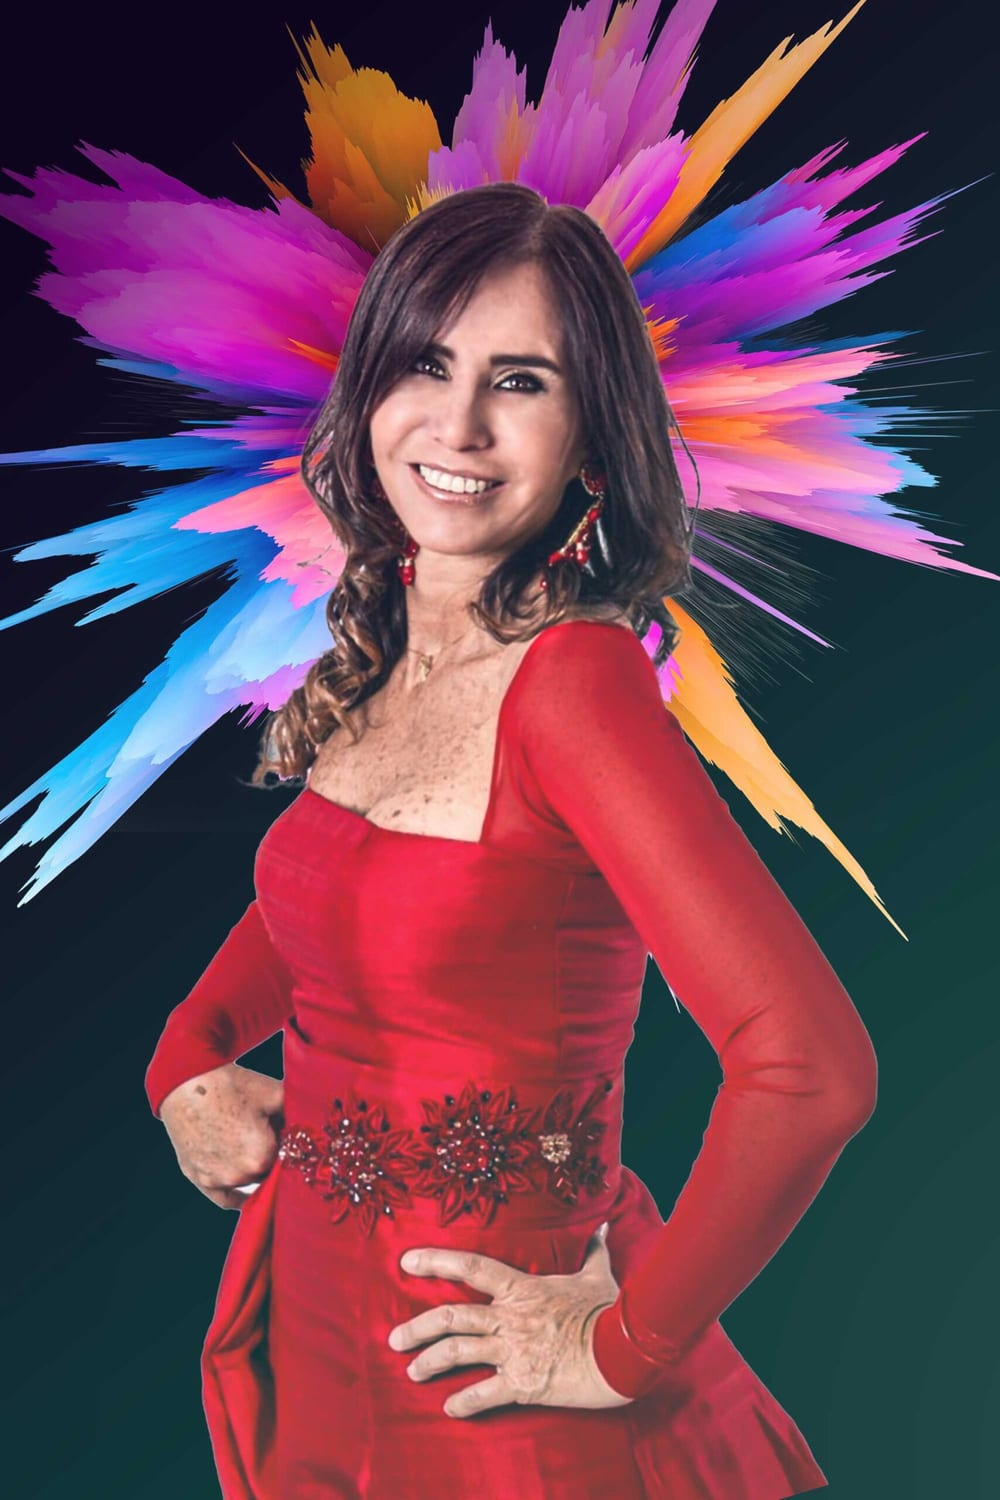
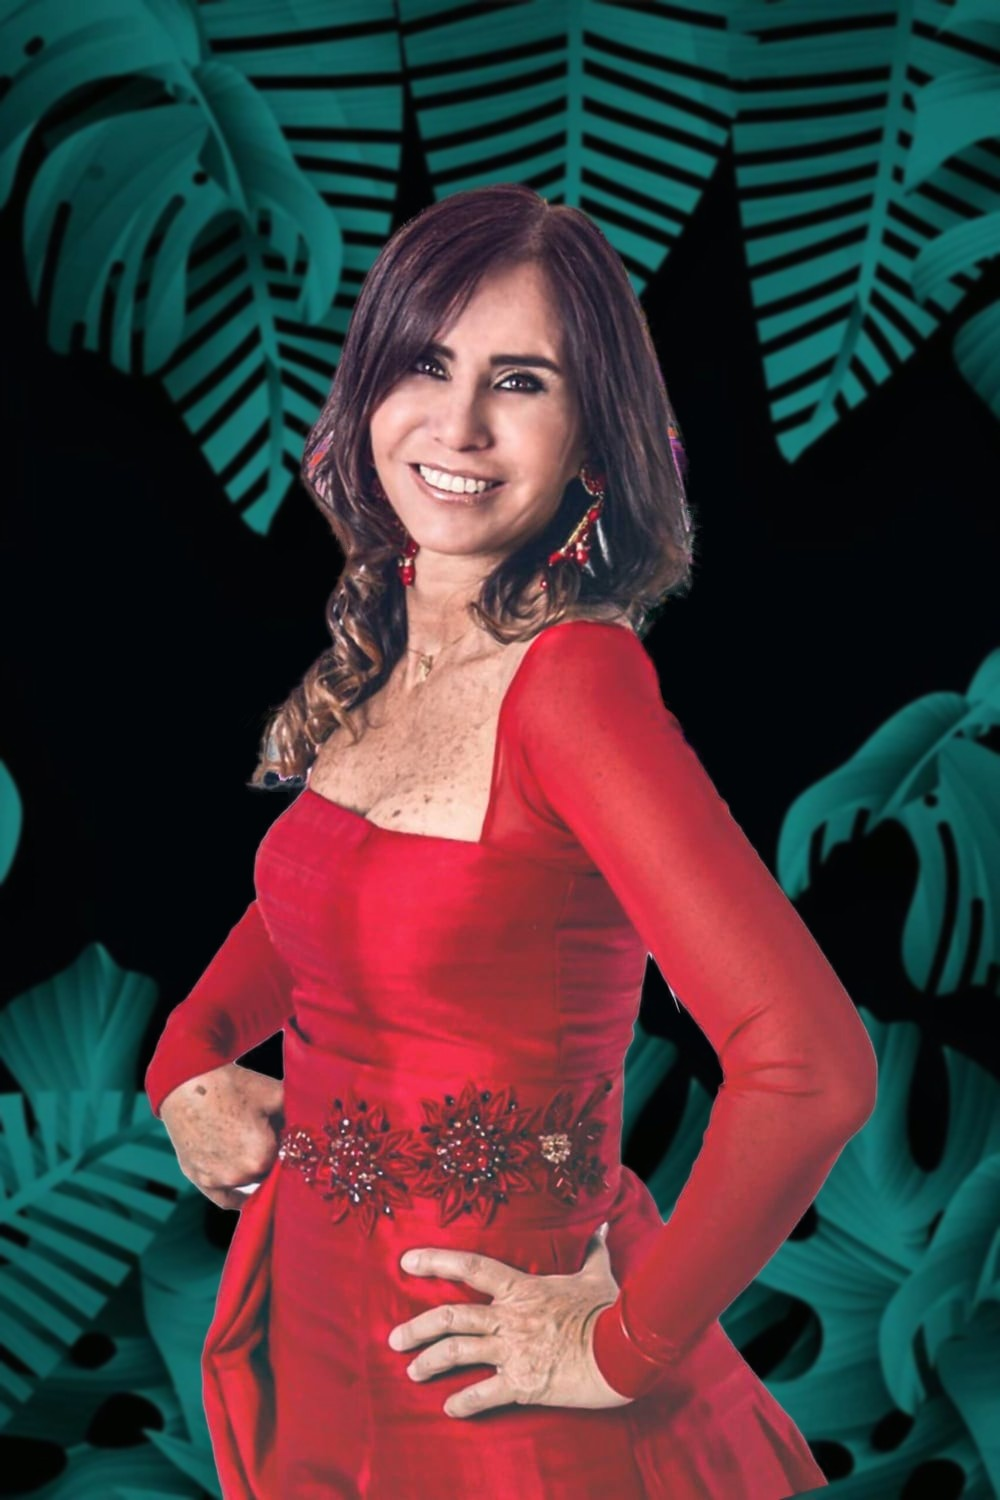
feat: add Artistas component and social media data structure
- Created a new Artistas component to showcase artists involved in the Nasúa initiative, including a title, description, image, and a list of artist names with animation effects.
- Introduced a new social media data structure in socials.ts to manage social media links and SVG paths for various platforms, enhancing the site's social media integration.

diff --git a/src/data/socials.ts b/src/data/socials.ts
@@ -1,0 +1,39 @@
+// ═══════════════════════════════════════════════════════════
+//  REDES SOCIALES — lista compartida (hero + footer)
+//  Los links se editan en config.ts → REDES
+// ═══════════════════════════════════════════════════════════
+import { REDES } from './config';
+
+export interface Social {
+  key:   string;
+  label: string;
+  href:  string;   // '' si aún no hay link
+  path:  string;   // path SVG (viewBox 0 0 24 24)
+}
+
+export const SOCIALS: Social[] = [
+  {
+    key: 'instagram', label: 'Instagram', href: REDES.instagram,
+    path: 'M12 2.163c3.204 0 3.584.012 4.85.07 3.252.148 4.771 1.691 4.919 4.919.058 1.265.069 1.645.069 4.849 0 3.205-.012 3.584-.069 4.849-.149 3.225-1.664 4.771-4.919 4.919-1.266.058-1.644.07-4.85.07-3.204 0-3.584-.012-4.849-.07-3.26-.149-4.771-1.699-4.919-4.92-.058-1.265-.07-1.644-.07-4.849 0-3.204.013-3.583.07-4.849.149-3.227 1.664-4.771 4.919-4.919 1.266-.057 1.645-.069 4.849-.069zm0-2.163c-3.259 0-3.667.014-4.947.072-4.358.2-6.78 2.618-6.98 6.98-.059 1.281-.073 1.689-.073 4.948 0 3.259.014 3.668.072 4.948.2 4.358 2.618 6.78 6.98 6.98 1.281.058 1.689.072 4.948.072 3.259 0 3.668-.014 4.948-.072 4.354-.2 6.782-2.618 6.979-6.98.059-1.28.073-1.689.073-4.948 0-3.259-.014-3.667-.072-4.947-.196-4.354-2.617-6.78-6.979-6.98-1.281-.059-1.69-.073-4.949-.073zm0 5.838c-3.403 0-6.162 2.759-6.162 6.162s2.759 6.163 6.162 6.163 6.162-2.759 6.162-6.163c0-3.403-2.759-6.162-6.162-6.162zm0 10.162c-2.209 0-4-1.79-4-4 0-2.209 1.791-4 4-4s4 1.791 4 4c0 2.21-1.791 4-4 4zm6.406-11.845c-.796 0-1.441.645-1.441 1.44s.645 1.44 1.441 1.44c.795 0 1.439-.645 1.439-1.44s-.644-1.44-1.439-1.44z',
+  },
+  {
+    key: 'facebook', label: 'Facebook', href: REDES.facebook,
+    path: 'M24 12.073c0-6.627-5.373-12-12-12s-12 5.373-12 12c0 5.99 4.388 10.954 10.125 11.854v-8.385H7.078v-3.47h3.047V9.43c0-3.007 1.792-4.669 4.533-4.669 1.312 0 2.686.235 2.686.235v2.953H15.83c-1.491 0-1.956.925-1.956 1.874v2.25h3.328l-.532 3.47h-2.796v8.385C19.612 23.027 24 18.062 24 12.073z',
+  },
+  {
+    key: 'tiktok', label: 'TikTok', href: REDES.tiktok,
+    path: 'M12.525.02c1.31-.02 2.61-.01 3.91-.02.08 1.53.63 3.09 1.75 4.17 1.12 1.11 2.7 1.62 4.24 1.79v4.03c-1.44-.05-2.89-.35-4.2-.97-.57-.26-1.1-.59-1.62-.93-.01 2.92.01 5.84-.02 8.75-.08 1.4-.54 2.79-1.35 3.94-1.31 1.92-3.58 3.17-5.91 3.21-1.43.08-2.86-.31-4.08-1.03-2.02-1.19-3.44-3.37-3.65-5.71-.02-.5-.03-1-.01-1.49.18-1.9 1.12-3.72 2.58-4.96 1.66-1.44 3.98-2.13 6.15-1.72.02 1.48-.04 2.96-.04 4.44-.99-.32-2.15-.23-3.02.37-.63.41-1.11 1.04-1.36 1.75-.21.51-.15 1.07-.14 1.61.24 1.64 1.82 3.02 3.5 2.87 1.12-.01 2.19-.66 2.77-1.61.19-.33.4-.67.41-1.06.1-1.79.06-3.57.07-5.36.01-4.03-.01-8.05.02-12.07z',
+  },
+  {
+    key: 'youtube', label: 'YouTube', href: REDES.youtube,
+    path: 'M23.498 6.186a3.016 3.016 0 00-2.122-2.136C19.505 3.545 12 3.545 12 3.545s-7.505 0-9.377.505A3.017 3.017 0 00.502 6.186C0 8.07 0 12 0 12s0 3.93.502 5.814a3.016 3.016 0 002.122 2.136c1.871.505 9.376.505 9.376.505s7.505 0 9.377-.505a3.015 3.015 0 002.122-2.136C24 15.93 24 12 24 12s0-3.93-.502-5.814zM9.545 15.568V8.432L15.818 12l-6.273 3.568z',
+  },
+  {
+    key: 'spotify', label: 'Spotify', href: REDES.spotify,
+    path: 'M12 0C5.4 0 0 5.4 0 12s5.4 12 12 12 12-5.4 12-12S18.66 0 12 0zm5.521 17.34c-.24.359-.66.48-1.021.24-2.82-1.74-6.36-2.101-10.561-1.141-.418.122-.779-.179-.899-.539-.12-.421.18-.78.54-.9 4.56-1.021 8.52-.6 11.64 1.32.42.18.479.659.301 1.02zm1.44-3.3c-.301.42-.841.6-1.262.3-3.239-1.98-8.159-2.58-11.939-1.38-.479.12-1.02-.12-1.14-.6-.12-.48.12-1.021.6-1.141C9.6 9.9 15 10.561 18.72 12.84c.361.181.54.78.241 1.2zm.12-3.36C15.24 8.4 8.82 8.16 5.16 9.301c-.6.179-1.2-.181-1.38-.721-.18-.601.18-1.2.72-1.381 4.26-1.26 11.28-1.02 15.721 1.621.539.3.719 1.02.42 1.56-.299.421-1.02.599-1.56.3z',
+  },
+  {
+    key: 'applemusic', label: 'Apple Music', href: REDES.applemusic,
+    path: 'M23.997 6.124c0-.738-.065-1.47-.24-2.19-.317-1.31-1.062-2.31-2.18-3.043C21.003.517 20.373.285 19.7.164c-.517-.093-1.038-.135-1.564-.15-.04-.003-.083-.01-.124-.013H5.988c-.152.01-.303.017-.455.026-.747.043-1.49.123-2.193.4-1.336.53-2.3 1.452-2.865 2.78-.192.448-.292.925-.363 1.408-.056.392-.088.785-.1 1.18 0 .032-.007.062-.01.093v12.223c.01.14.017.283.027.424.05.815.154 1.624.497 2.374.65 1.42 1.738 2.353 3.234 2.8.42.127.856.187 1.293.228.555.053 1.11.06 1.667.06h11.03c.525 0 1.048-.034 1.57-.1.822-.106 1.596-.35 2.295-.81a5.046 5.046 0 001.88-2.208c.186-.42.293-.87.37-1.324.113-.675.138-1.358.137-2.04-.002-3.8 0-7.595-.003-11.393zm-6.423 3.99v5.712c0 .417-.058.827-.244 1.206-.29.59-.76.962-1.388 1.14-.35.1-.706.157-1.07.173-.95.045-1.773-.6-1.943-1.536-.142-.773.227-1.624 1.038-2.022.323-.16.67-.25 1.018-.324.378-.082.758-.153 1.134-.24.274-.063.457-.23.51-.516a.904.904 0 00.02-.193c0-1.815 0-3.63-.002-5.443a.725.725 0 00-.026-.185c-.036-.135-.13-.223-.269-.245a.708.708 0 00-.221.002c-.31.056-.618.115-.928.174l-2.678.522-1.803.35c-.006.002-.013.005-.02.006-.29.07-.386.185-.398.483-.002.037 0 .074 0 .11-.002 2.606 0 5.212-.003 7.818 0 .385-.053.762-.23 1.11-.29.568-.748.923-1.36 1.093-.35.097-.706.14-1.068.156-.95.045-1.773-.6-1.943-1.536-.142-.773.227-1.624 1.038-2.022.323-.16.67-.25 1.018-.324.378-.082.758-.153 1.134-.24.274-.063.457-.23.51-.516a.42.42 0 00.02-.126V8.28c0-.02 0-.04.002-.06.01-.267.127-.44.39-.5.15-.033.302-.062.453-.093l2.663-.518 2.163-.42 1.087-.212c.257-.05.514-.1.77-.147.393-.074.79.16.9.542.02.07.03.144.03.217.002 1.99.002 3.98 0 5.97z',
+  },
+];

diff --git a/src/data/config.ts b/src/data/config.ts
@@ -16,22 +16,24 @@ export const LOGOS = {
 // ── Datos de contacto / Booking (PENDIENTE del cliente) ──
 export const CONTACTO = {
   email:   'booking@nasuamusica.com',     // ← PENDIENTE: actualizar
-  asunto:  'Booking - Nasúa Narica',
+  asunto:  'Booking - Nasúa',
   telefono: '',                            // ← PENDIENTE: agregar si aplica
 };
 
 // ── Redes sociales ───────────────────────────────────────
 export const REDES = {
-  instagram: 'https://instagram.com/nasuamusica',
-  youtube:   'https://youtube.com/@nasuamusica',
-  spotify:   '',                           // ← PENDIENTE: agregar link Spotify
-  tiktok:    '',                           // ← PENDIENTE: agregar si tienen
+  instagram:  'https://instagram.com/nasuamusica',
+  facebook:   'https://facebook.com/nasuamusica',   // ← VERIFICAR URL real (perfil "NASUA Música")
+  tiktok:     'https://www.tiktok.com/@nasuamusica',
+  youtube:    'https://youtube.com/@nasuanarica',
+  spotify:    '',                          // ← PENDIENTE: pegar link del artista en Spotify
+  applemusic: '',                          // ← PENDIENTE: pegar link del artista en Apple Music
 };
 
 // ── SEO / Metadatos ───────────────────────────────────────
 export const SEO = {
   sitio:       'https://nasuanarica.com',
-  titulo:      'Nasúa Narica — Música Sin Fronteras',
+  titulo:      'Nasúa — Música Sin Fronteras',
   descripcion: 'Colectivo de pop tropical y fusión latinoamericana. Música que rompe fronteras.',
   og_imagen:   '/logos/logo-full.png',
 };

diff --git a/src/data/members.ts b/src/data/members.ts
@@ -13,23 +13,30 @@ export interface Miembro {
 export const MIEMBROS: Miembro[] = [
   {
     nombre:    'Vivian',
-    rol:       'Voz & Composición',
+    rol:       'Cantante e Intérprete',
     bio:       'La fuerza vocal del colectivo. Vivian trae la intensidad tropical que define el sonido de Nasúa.',
     imagen:    '/images/members/vivian.jpg',   // ← PENDIENTE: foto real
     instagram: '',
   },
   {
     nombre:    'Julie',
-    rol:       'Producción & Teclados',
+    rol:       'Compositora',
     bio:       'Arquitecta del sonido. Julie construye los paisajes electrónicos y tropicales que sostienen cada canción.',
     imagen:    '/images/members/julie.jpg',    // ← PENDIENTE: foto real
     instagram: '',
   },
   {
     nombre:    'Luis',
-    rol:       'Guitarras & Arreglos',
+    rol:       'Músico y Guitarrista',
     bio:       'El corazón rítmico. Luis teje la fusión de géneros que hace imposible quedarse quieto.',
     imagen:    '/images/members/luis.jpg',     // ← PENDIENTE: foto real
+    instagram: '',
+  },
+  {
+    nombre:    'Nasúa',
+    rol:       'Compositor',
+    bio:       'Nasúa es el creador y fundador del proyecto, un compositor anónimo que da vida a esta propuesta artística y musical.',
+    imagen:    '/images/members/nasua.jpg',
     instagram: '',
   },
 ];

diff --git a/src/data/videos.ts b/src/data/videos.ts
@@ -17,11 +17,10 @@ export const VIDEO_LEYENDA = {
 
 // GRILLA DE VIDEOS
 export const VIDEOS: Video[] = [
-  // ← PENDIENTE: agregar los IDs reales de YouTube
-  { titulo: 'Video 1 — PENDIENTE',  youtubeId: 'PENDIENTE_1',  destacado: true },
-  { titulo: 'Video 2 — PENDIENTE',  youtubeId: 'PENDIENTE_2' },
-  { titulo: 'Video 3 — PENDIENTE',  youtubeId: 'PENDIENTE_3' },
-  { titulo: 'Video 4 — PENDIENTE',  youtubeId: 'PENDIENTE_4' },
-  { titulo: 'Video 5 — PENDIENTE',  youtubeId: 'PENDIENTE_5' },
-  { titulo: 'Video 6 — PENDIENTE',  youtubeId: 'PENDIENTE_6' },
+  { titulo: 'El profesor',                 youtubeId: 'k2OEo8H5-6c', destacado: true },
+  { titulo: 'La verdad es un problema',    youtubeId: 'PjhKr1xpJ1c' },
+  { titulo: 'Mujeres con alma de hombre',  youtubeId: 'KUjNSLFevFA' },
+  { titulo: 'Para siempre',                youtubeId: 'dpJouJPQ2lw' },
+  { titulo: 'No seas así',                 youtubeId: 'akh3KL7qABg' },
+  { titulo: 'La vida va',                  youtubeId: 'fZOKIjx7Za0' },
 ];
